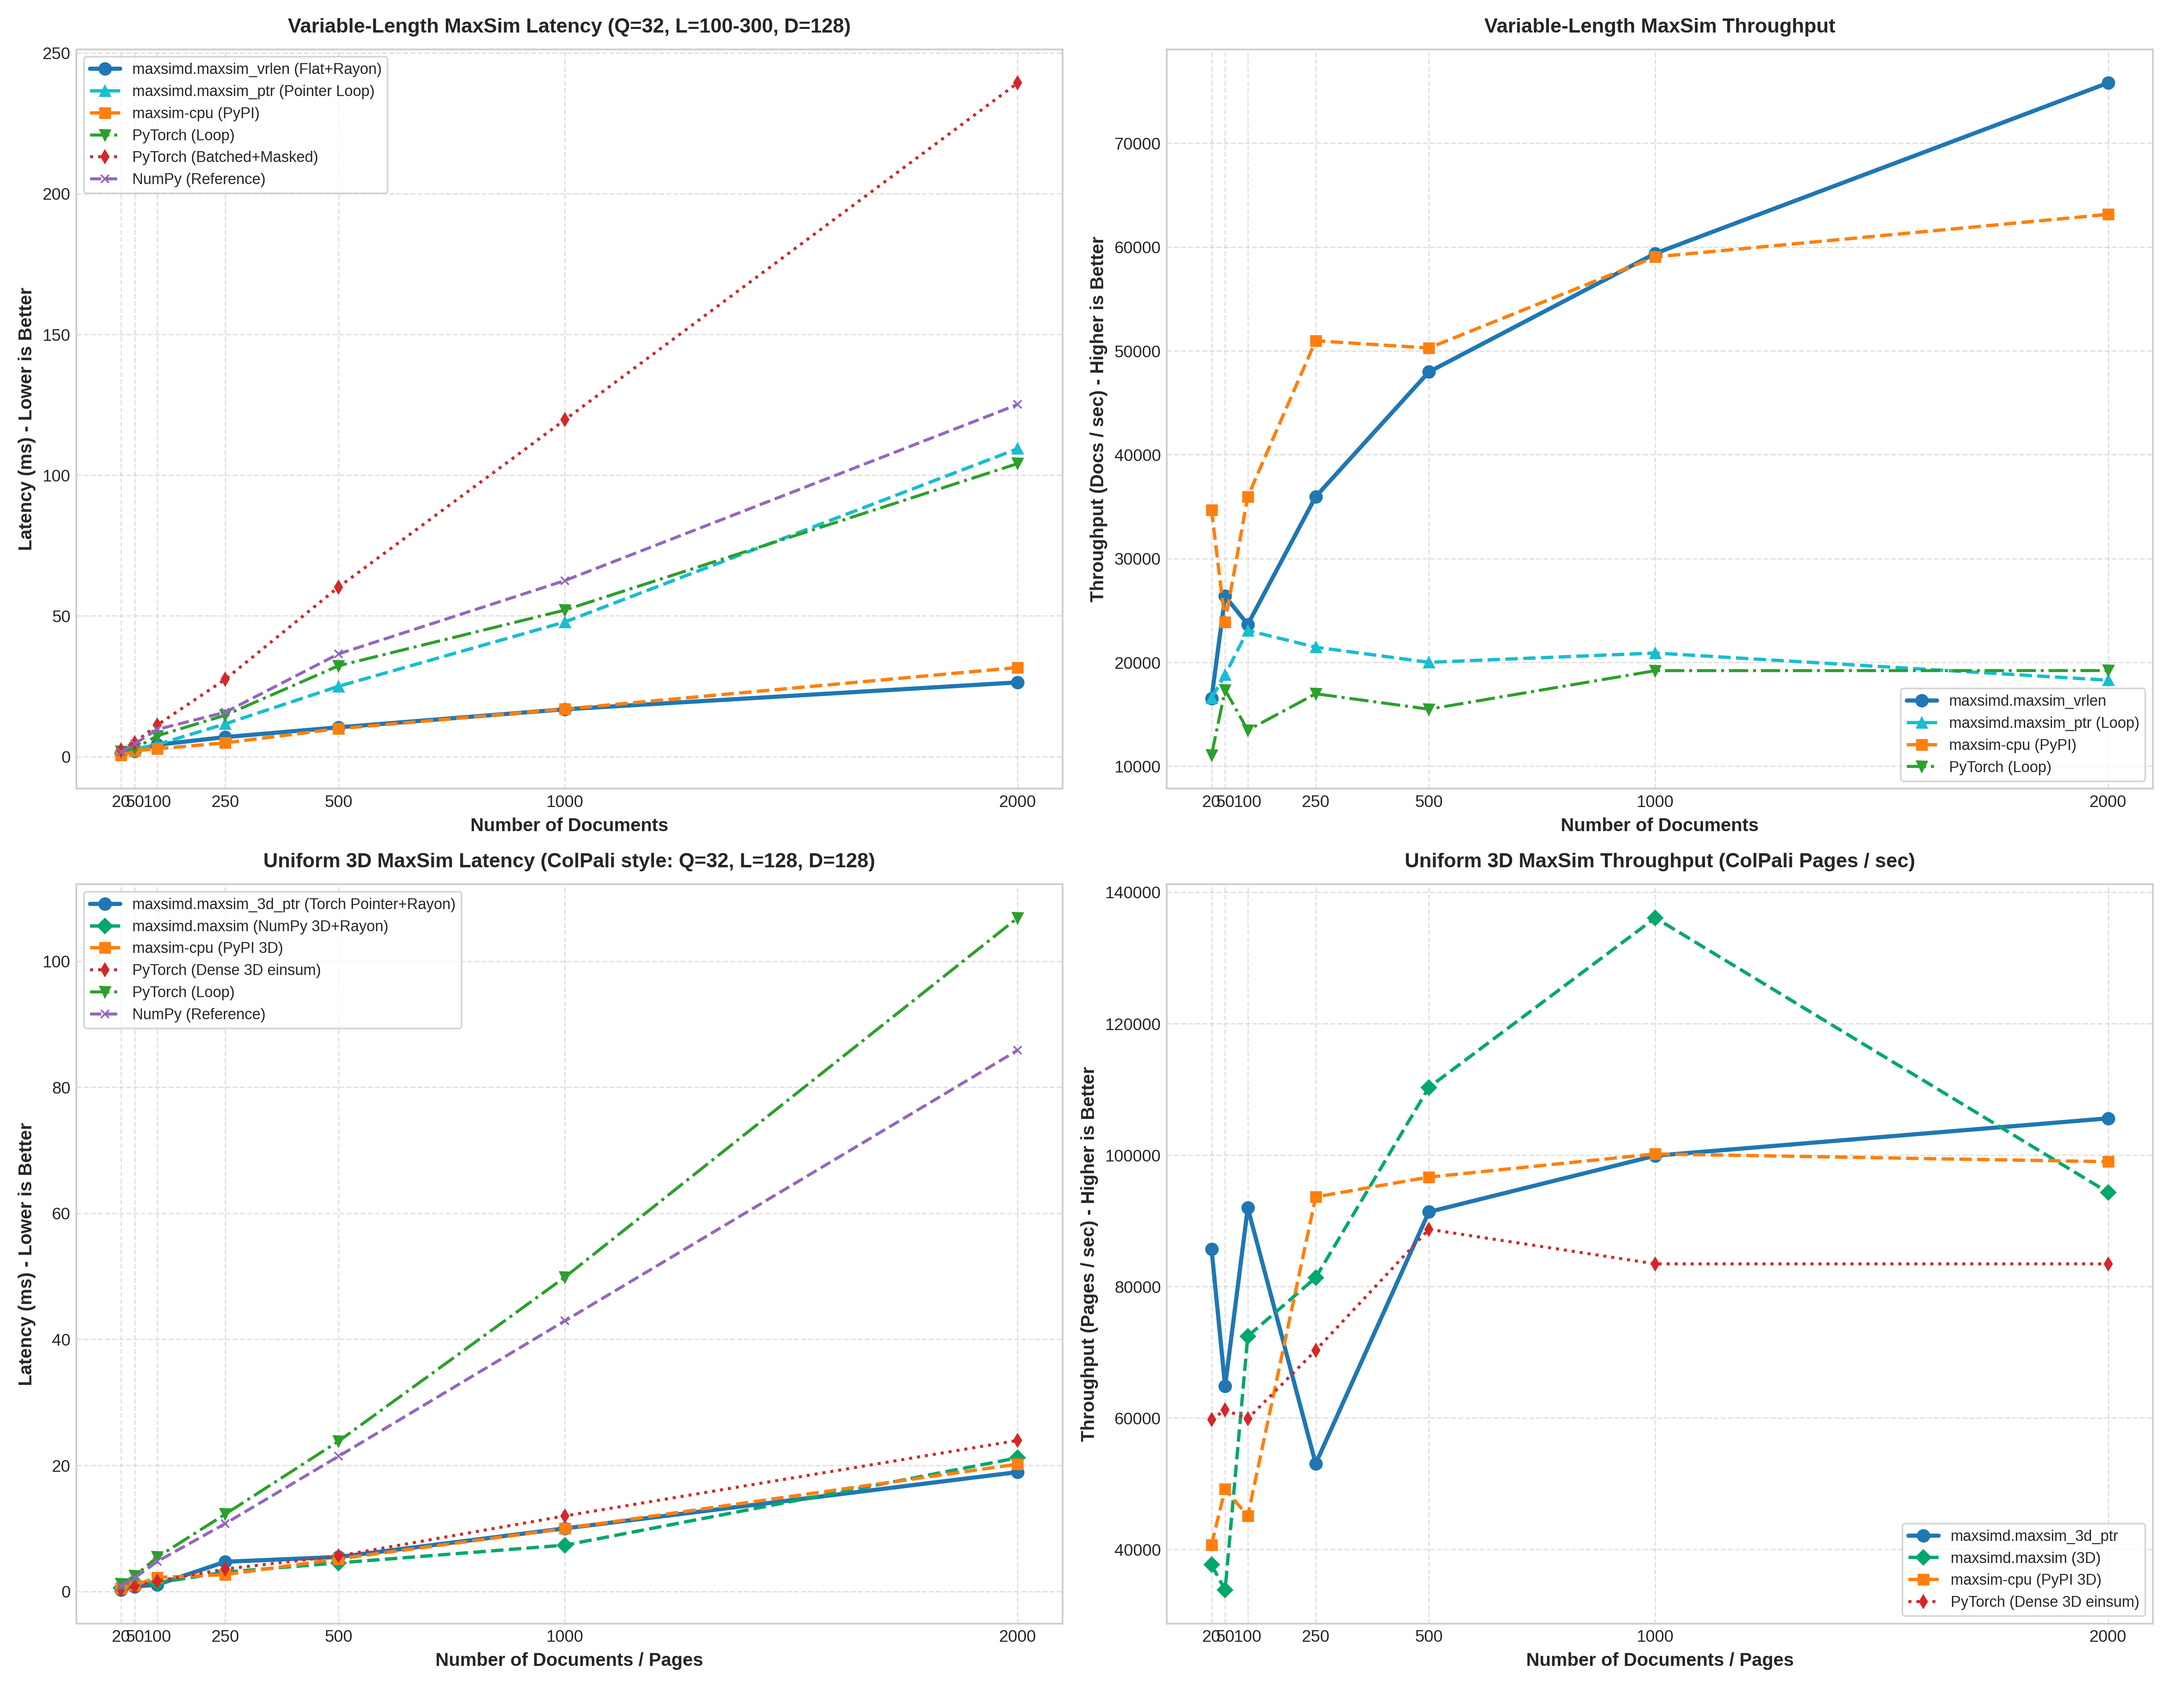
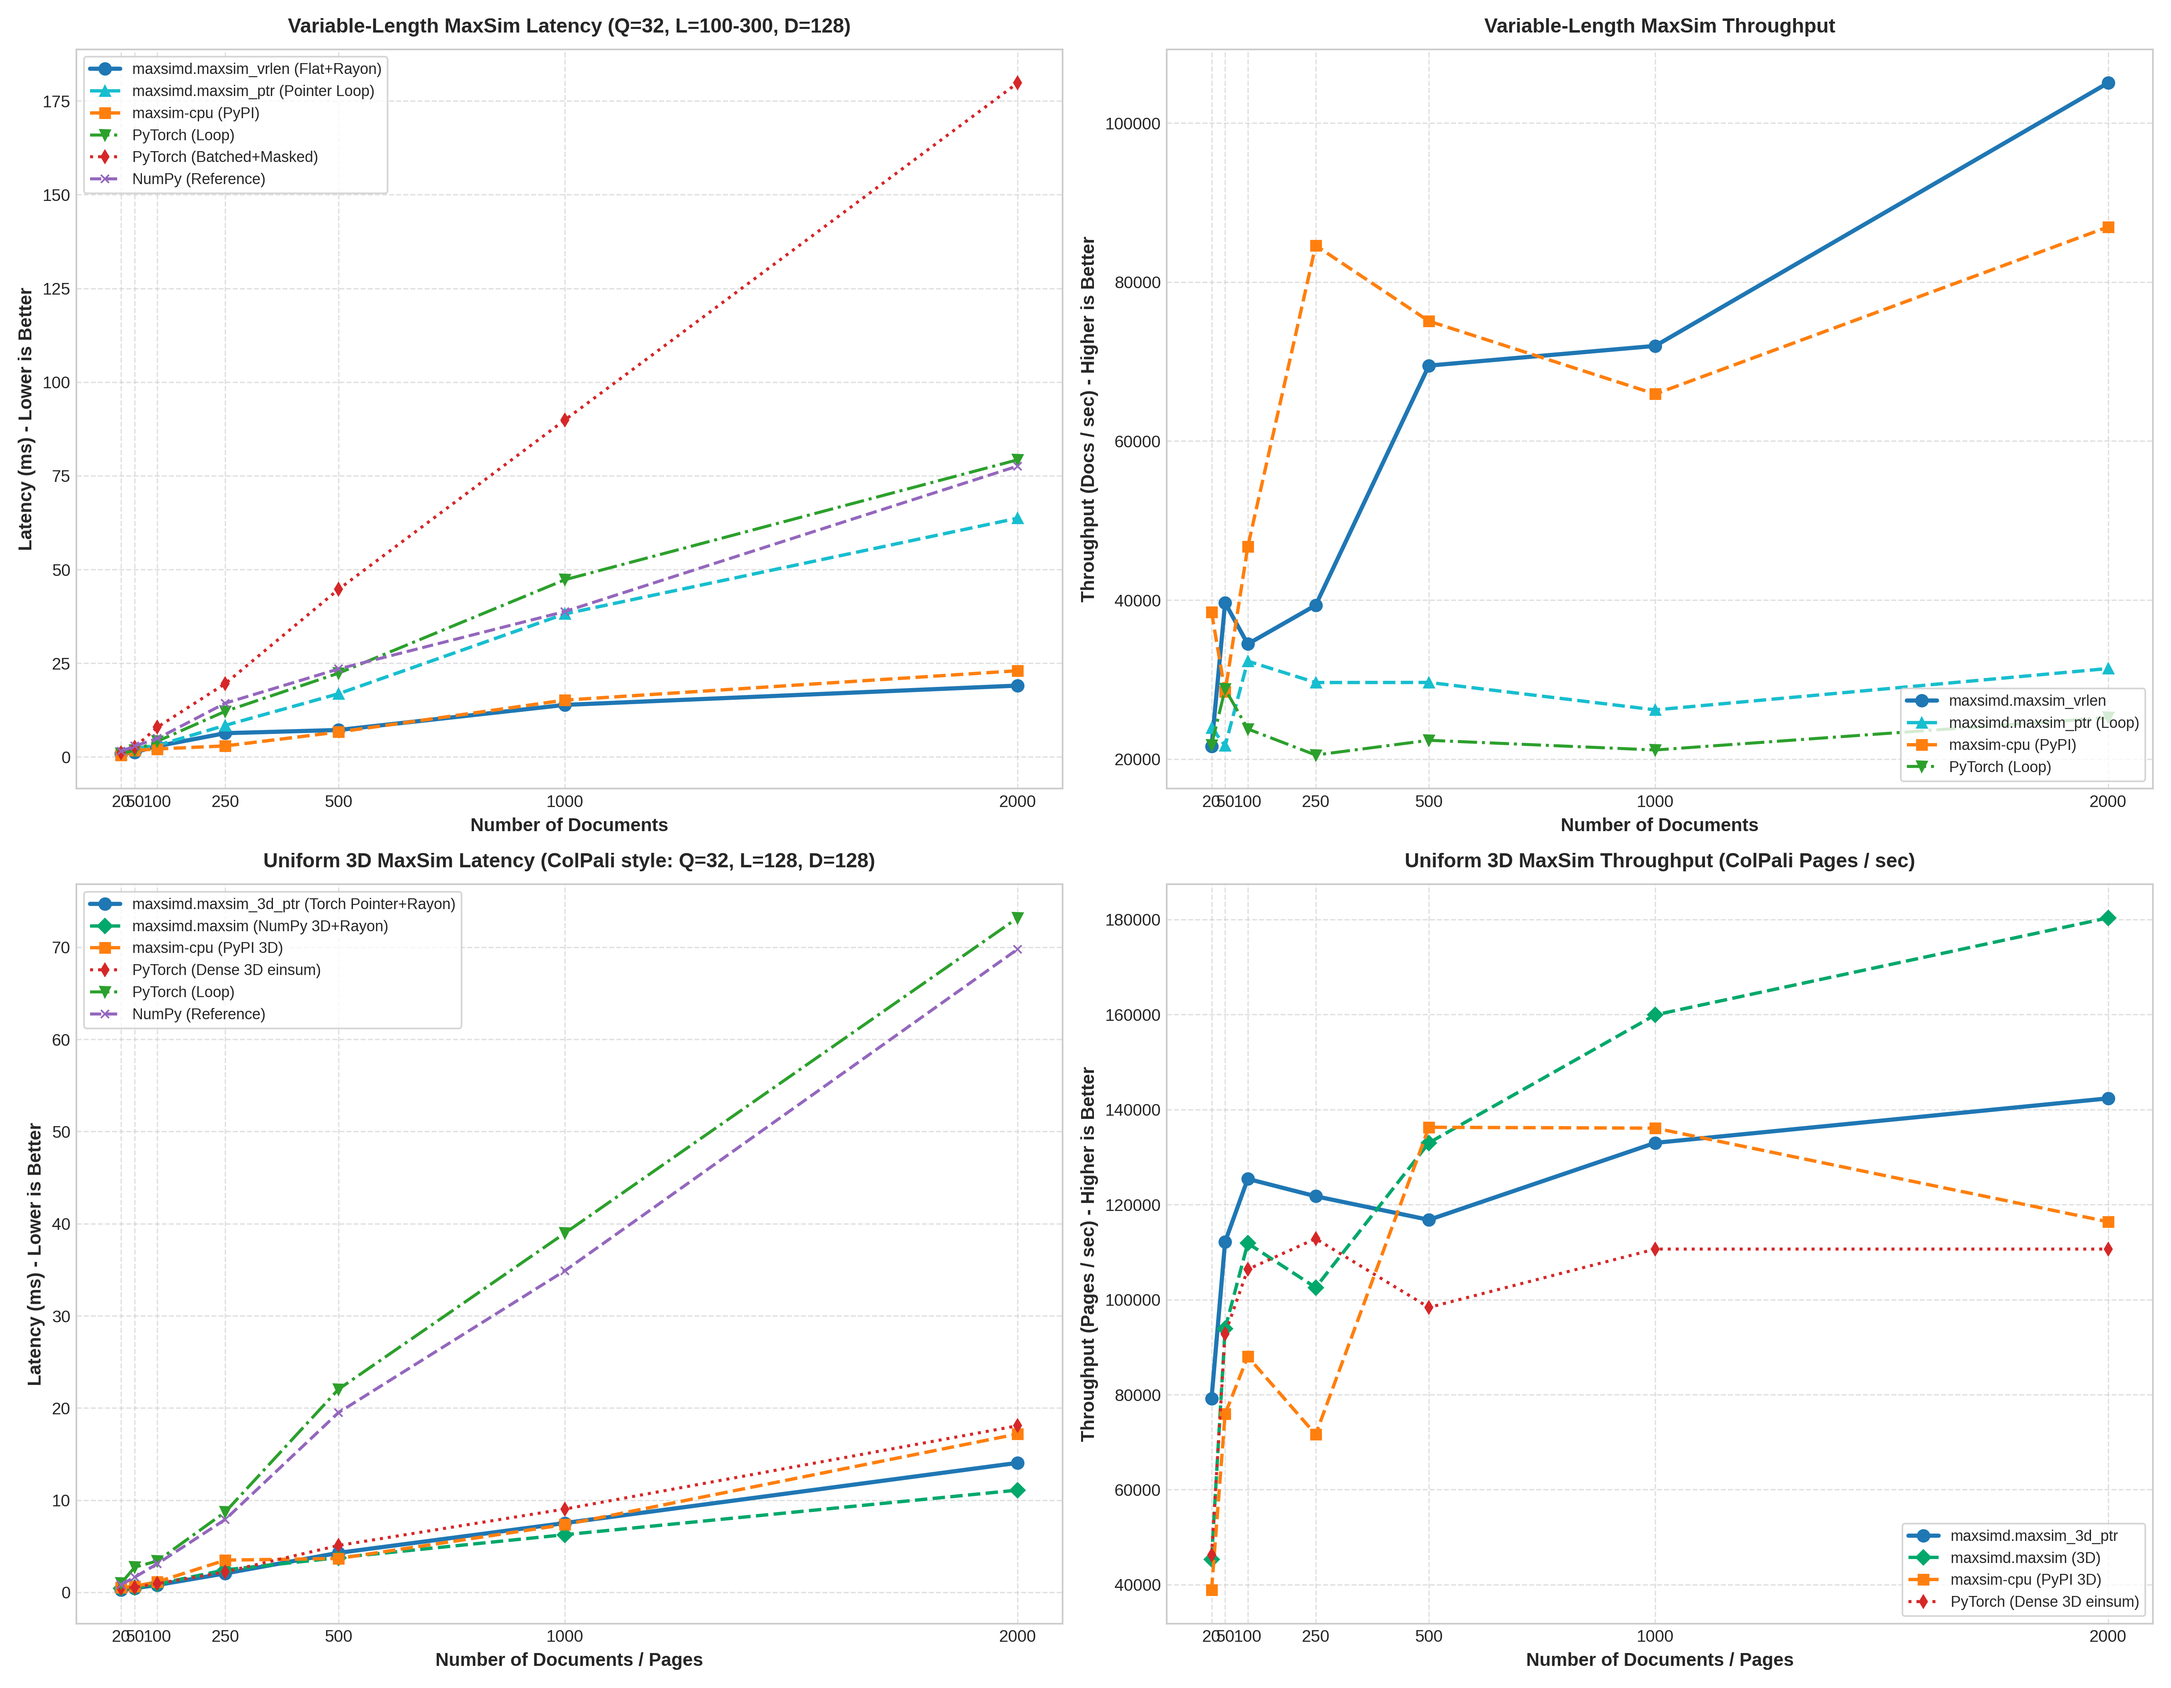
perf(simd): optimize fused MaxSim AVX2 kernel and streamline Criterion benchmarks

diff --git a/rust-core/cpu/vec256.rs b/rust-core/cpu/vec256.rs
@@ -107,8 +107,18 @@ pub mod simd {
         }
     }
 
-    /// Ultra-fast fused dot-product and max reduction specialized for dim=128 (ColPali / ColBERT standard).
-    /// Uses outer query blocking and streaming document access with zero allocations.
+    /// Colbert Style fused dot-product and max reduction for 128-dimensional vectors.
+    /// 
+    /// # Arguments
+    /// 
+    /// * `q` - The query vector.
+    /// * `d` - The document vector.
+    /// * `q_len` - The length of the query vector.
+    /// * `d_len` - The length of the document vector.
+    ///
+    /// # Returns
+    /// 
+    /// The fused dot-product and max reduction for 128-dimensional vectors.
     #[target_feature(enable = "avx2", enable = "fma")]
     #[inline]
     pub unsafe fn fused_dot_max_dim128_avx2(
@@ -117,6 +127,9 @@ pub mod simd {
         q_len: usize,
         d_len: usize,
     ) -> f32 {
+
+        // have done some tested and based on those choosing 4 * 2(more info in next commit)
+        
         if q_len == 0 || d_len == 0 {
             return 0.0;
         }
@@ -128,6 +141,7 @@ pub mod simd {
         unsafe {
             let mut qi = 0;
             while qi + 4 <= q_len {
+                // accumulators
                 let q0 = q_ptr.add(qi * 128);
                 let q1 = q_ptr.add((qi + 1) * 128);
                 let q2 = q_ptr.add((qi + 2) * 128);
@@ -139,20 +153,41 @@ pub mod simd {
                 let mut m3 = f32::NEG_INFINITY;
 
                 for di in 0..d_len {
+                    // pre-fetch
                     let curr_d_ptr = d_ptr.add(di * 128);
 
-                    let mut acc0 = _mm256_setzero_ps();
-                    let mut acc1 = _mm256_setzero_ps();
-                    let mut acc2 = _mm256_setzero_ps();
-                    let mut acc3 = _mm256_setzero_ps();
+                    let mut acc0_a = _mm256_setzero_ps();
+                    let mut acc1_a = _mm256_setzero_ps();
+                    let mut acc2_a = _mm256_setzero_ps();
+                    let mut acc3_a = _mm256_setzero_ps();
 
-                    for k in 0..16 {
-                        let vd = _mm256_loadu_ps(curr_d_ptr.add(k * 8));
-                        acc0 = _mm256_fmadd_ps(vd, _mm256_loadu_ps(q0.add(k * 8)), acc0);
-                        acc1 = _mm256_fmadd_ps(vd, _mm256_loadu_ps(q1.add(k * 8)), acc1);
-                        acc2 = _mm256_fmadd_ps(vd, _mm256_loadu_ps(q2.add(k * 8)), acc2);
-                        acc3 = _mm256_fmadd_ps(vd, _mm256_loadu_ps(q3.add(k * 8)), acc3);
+                    let mut acc0_b = _mm256_setzero_ps();
+                    let mut acc1_b = _mm256_setzero_ps();
+                    let mut acc2_b = _mm256_setzero_ps();
+                    let mut acc3_b = _mm256_setzero_ps();
+
+                    // moves to 16 cuz 128 / 8 = 16 yeah
+                    for k in (0..16).step_by(2) {
+                        let va = _mm256_loadu_ps(curr_d_ptr.add(k * 8));
+                        let vb = _mm256_loadu_ps(curr_d_ptr.add((k + 1) * 8));
+
+                        acc0_a = _mm256_fmadd_ps(va, _mm256_loadu_ps(q0.add(k * 8)), acc0_a);
+                        acc0_b = _mm256_fmadd_ps(vb, _mm256_loadu_ps(q0.add(k * 8 + 8)), acc0_b);
+
+                        acc1_a = _mm256_fmadd_ps(va, _mm256_loadu_ps(q1.add(k * 8)), acc1_a);
+                        acc1_b = _mm256_fmadd_ps(vb, _mm256_loadu_ps(q1.add(k * 8 + 8)), acc1_b);
+
+                        acc2_a = _mm256_fmadd_ps(va, _mm256_loadu_ps(q2.add(k * 8)), acc2_a);
+                        acc2_b = _mm256_fmadd_ps(vb, _mm256_loadu_ps(q2.add(k * 8 + 8)), acc2_b);
+
+                        acc3_a = _mm256_fmadd_ps(va, _mm256_loadu_ps(q3.add(k * 8)), acc3_a);
+                        acc3_b = _mm256_fmadd_ps(vb, _mm256_loadu_ps(q3.add(k * 8 + 8)), acc3_b);
                     }
+
+                    let acc0 = _mm256_add_ps(acc0_a, acc0_b);
+                    let acc1 = _mm256_add_ps(acc1_a, acc1_b);
+                    let acc2 = _mm256_add_ps(acc2_a, acc2_b);
+                    let acc3 = _mm256_add_ps(acc3_a, acc3_b);
 
                     let dot0 = horizontal_sum(acc0);
                     let dot1 = horizontal_sum(acc1);
@@ -177,6 +212,8 @@ pub mod simd {
                 qi += 4;
             }
 
+
+            // left over
             while qi < q_len {
                 let curr_q = q_ptr.add(qi * 128);
                 let mut max_val = f32::NEG_INFINITY;
@@ -205,7 +242,9 @@ pub mod simd {
         total_score
     }
 
-    /// Generic fused dot-product and max reduction for arbitrary embedding dimensions.
+    //TODO
+    //This isn't optimzied at all, and haven't planning on doing so as the aim is make a colbert
+    //style typ shit so this is the best I can do
     #[target_feature(enable = "avx2", enable = "fma")]
     #[inline]
     pub unsafe fn fused_dot_max_generic_avx2(
@@ -275,9 +314,44 @@ pub mod simd {
 #[cfg(test)]
 mod tests {
     use super::*;
+    use rand::{Rng, thread_rng};
+    
+
+    pub fn naive_maxsim_dim128(q: &[f32], d: &[f32], q_len: usize, d_len: usize) -> f32 {
+        if q_len == 0 || d_len == 0 {
+            return 0.0;
+        }
+
+        let mut total_score = 0.0;
+        for qi in 0..q_len {
+            let mut max_doc_score = f32::NEG_INFINITY;
+            for di in 0..d_len {
+                let mut dot = 0.0;
+                // Standard linear dot product
+                for k in 0..128 {
+                    dot += q[qi * 128 + k] * d[di * 128 + k];
+                }
+                if dot > max_doc_score {
+                    max_doc_score = dot;
+                }
+            }
+            total_score += max_doc_score;
+        }
+        total_score
+    }
 
     fn max_scalar(a: &[f32]) -> f32 {
         a.iter().copied().fold(f32::NEG_INFINITY, f32::max)
+    }
+
+    fn generate_data(len: usize) -> Vec<f32> {
+        let mut rng = thread_rng();
+        (0..(len * 128)).map(|_| rng.gen_range(-1.0..1.0)).collect()
+    }
+
+    fn assert_approx_eq(a: f32, b: f32) {
+        let epsilon = 1e-4; // Margin of error for floating point reordering
+        assert!((a - b).abs() < epsilon, "Mismatch: SIMD {} vs Naive {}", a, b);
     }
 
     fn assert_max_eq(input: &[f32]) {
@@ -404,6 +478,40 @@ mod tests {
             got_generic,
             expected
         );
+    }
+
+    #[test]
+    fn test_simd_correctness_standard_batch() {
+        let q_len = 32; // Divides perfectly by 4
+        let d_len = 100;
+        let q = generate_data(q_len);
+        let d = generate_data(d_len);
+
+        let naive_score = naive_maxsim_dim128(&q, &d, q_len, d_len);
+        let simd_score = unsafe { simd::fused_dot_max_dim128_avx2(&q, &d, q_len, d_len) };
+        assert_approx_eq(simd_score, naive_score);
+    }
+
+    #[test]
+    fn test_simd_correctness_leftovers() {
+        let q_len = 5; // Forces the "leftover" while loop to run (4 + 1)
+        let d_len = 10;
+        let q = generate_data(q_len);
+        let d = generate_data(d_len);
+
+        let naive_score = naive_maxsim_dim128(&q, &d, q_len, d_len);
+        let simd_score = unsafe { simd::fused_dot_max_dim128_avx2(&q, &d, q_len, d_len) };
+        assert_approx_eq(simd_score, naive_score);
+    }
+
+    #[test]
+    fn test_simd_correctness_empty() {
+        let q: Vec<f32> = vec![];
+        let d: Vec<f32> = vec![];
+        let naive_score = naive_maxsim_dim128(&q, &d, 0, 0);
+        let simd_score = unsafe { simd::fused_dot_max_dim128_avx2(&q, &d, 0, 0) };
+        assert_eq!(simd_score, 0.0);
+        assert_eq!(naive_score, 0.0);
     }
 
     #[test]

diff --git a/rust-core/benches/bench.rs b/rust-core/benches/bench.rs
@@ -1,9 +1,9 @@
 use criterion::{
-    BatchSize, BenchmarkId, Criterion, Throughput, black_box, criterion_group, criterion_main,
+    BenchmarkId, Criterion, Throughput, black_box, criterion_group, criterion_main,
 };
 use maxsimd::cpu::vec256::simd::{fused_dot_max_dim128_avx2, fused_dot_max_generic_avx2};
-use maxsimd::func::function::internal::{pro_sgl_doc_msgemm};
-use maxsimd::func::function::{maxsim_variable_length};
+use maxsimd::func::function::internal::pro_sgl_doc_msgemm;
+use maxsimd::func::function::maxsim_variable_length;
 
 use pprof::criterion::{Output, PProfProfiler};
 use rand::Rng;
@@ -20,32 +20,29 @@ macro_rules! single_func_benchmark {
         $(, $args:expr)*
     ) => {{
         $grp.throughput($thput);
+        let mut rng = rand::thread_rng();
+        let q_data: Vec<f32> = (0..($q_len * $dim))
+            .map(|_| rng.gen_range(-1.0..1.0)).collect();
+        let d_data: Vec<f32> = (0..($d_len * $dim))
+            .map(|_| rng.gen_range(-1.0..1.0)).collect();
         $grp.bench_function($name, |b| {
-            b.iter_batched(
+            b.iter(
                 || {
-                    let mut rng = rand::thread_rng();
-                    let q_data: Vec<f32> = (0..($q_len * $dim))
-                        .map(|_| rng.gen_range(-1.0..1.0))
-                        .collect();
-                    let d_data: Vec<f32> = (0..($d_len * $dim))
-                        .map(|_| rng.gen_range(-1.0..1.0))
-                        .collect();
-                    (q_data, d_data)
+                black_box($func(
+                black_box(&q_data),
+                black_box(&d_data),
+                black_box($q_len),
+                black_box($d_len)
+                $(, black_box($args))*
+            ))
                 },
-                |(q_data, d_data)| {
-                    black_box($func(
-                        black_box(&q_data),
-                        black_box(&d_data),
-                        black_box($q_len),
-                        black_box($d_len)
-                        $(, black_box($args))*
-                    ))
-                },
-                BatchSize::LargeInput,
             )
         });
     }};
 
+
+    //TODO
+    //Will change this one 
     (
         $grp: expr,
         $name: expr,
@@ -173,42 +170,38 @@ fn bench_level_2(c: &mut Criterion) {
     let q_len = 32;
     let d_len = 256;
 
-
     // for maxsim_variable_length -> base case
-    group.throughput(Throughput::Elements(dim as u64 * q_len as u64 * d_len as u64));
+    group.throughput(Throughput::Elements(
+        dim as u64 * q_len as u64 * d_len as u64,
+    ));
+
+    let mut rng = rand::thread_rng();
+    let q_data: Vec<f32> = (0..(q_len * dim))
+            .map(|_| rng.gen_range(-1.0..1.0))
+            .collect();
+    let d_data: Vec<f32> = (0..(d_len * dim))
+            .map(|_| rng.gen_range(-1.0..1.0))
+            .collect();
+
+    // [(doc_idx, doc_len, doc_data)]
+    let dd = vec![(0_usize, d_len, d_data)];
+
 
     group.bench_function("maxsim_variable_length", |b| {
-        b.iter_batched(|| {
-        // setup
-        let mut rng = rand::thread_rng();
-        let q_data: Vec<f32>  = (0..(q_len * dim))
-            .map(|_| rng.gen_range(-1.0..1.0))
-            .collect();
-
-        let d_data: Vec<f32> = (0..(d_len * dim))
-            .map(|_| rng.gen_range(-1.0..1.0))
-            .collect();
-
-        // [(doc_idx, doc_len, doc_data)]
-        let dd = vec![(0_usize, d_len, d_data)];
-
-        (q_data, dd)
-        }, 
-
-        // Measure Phase
-        |(q_data, dd)| {
+        b.iter(
+            || {
             black_box(maxsim_variable_length(
-                black_box(q_data),
-                black_box(dd),
-                black_box(q_len),
-                black_box(dim)
-            ))
-        }
-        , BatchSize::LargeInput);         
+            black_box(q_data.clone()),
+            black_box(dd.clone()),
+            black_box(q_len),
+            black_box(dim),
+                ))
+            },
+        );
     });
 
     group.finish();
- }
+}
 
 criterion_group!(
     name=benches;
